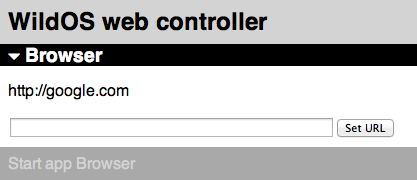
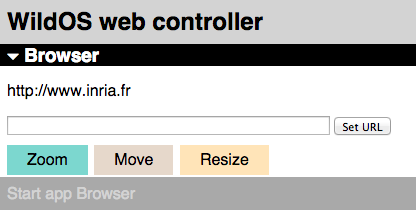
Updated documentation for faceless mode and new Browser controller. Fixed bug in Layer.

diff --git a/doc/running.html b/doc/running.html
@@ -31,6 +31,7 @@
 <li class="toc3"><a href="#runningthewebclients">Running the web clients</a></li>
 <li class="toc3"><a href="#shuttingdown">Shutting down</a></li>
 <li class="toc3"><a href="#runningrenderersbyhand">Running renderers by hand</a></li>
+<li class="toc3"><a href="#runningafacelessserver">Running a faceless server</a></li>
 
             </ul>
           </li>
@@ -94,7 +95,7 @@ The <code>Shutdown</code> button sends a message to the clients to quit them gra
 
 <p>The general format of the <code>wildos</code> command is as follows:</p>
 
-<pre><code>    % wildos [start] [-n|--no-clients] [-w|--wall config] [-c|--config path] [-p|--port number] [-d|--debug [0|1|2]] [-l|--log file] [app ...]
+<pre><code>    % wildos [start] [-n|--no-clients] [-w|--wall config] [-c|--config path] [-p|--port number] [-d|--debug [0|1|2]] [-l|--log file] [--no-GUI] [app ...]
     % wildos stop
 </code></pre>
 
@@ -107,6 +108,7 @@ The <code>Shutdown</code> button sends a message to the clients to quit them gra
 <li><code>-p|--port &lt;number&gt;</code> specifies a different port number than the one specified in the config file for the server to listen to;</li>
 <li><code>-d|--debug [0|1|2|3]</code> specifies debugging level: 0 (no logging), 1 (logging window hidden), 2 (logging window open), 3 (logging redirected to the console);</li>
 <li><code>-l|--log file</code> specifies the log configuration file (defaults to <code>logdefault.js</code>);</li>
+<li><code>--no-GUI</code> specifies to run the server faceless (see below);</li>
 <li><code>app ...</code> is an optional list of apps. The available apps, such as <code>Browser</code> are described later in this document.</li>
 </ul>
 
@@ -169,14 +171,35 @@ The full list of options is as follows:</p>
 <li><code>-s, --server &lt;name[:port]&gt;</code> specifies the server and, optionally, port number to connect to (defaults to $SSH_CLIENT and the port number specified by <code>--port</code>);</li>
 <li><code>-l, --local</code> runs the renderer locally: server is on localhost;</li>
 <li><code>-p, --port &lt;number&gt;</code> specifies the port number on the server (defaults to 8080);</li>
-<li><code>-h, --hostname &lt;name&gt;</code> &#8217;Host name to send to server (defaults to the hostname returned by node.js);</li>
-<li><code>-i, --instance &lt;name&gt;</code> &#8217;Instance name (required);</li>
-<li><code>-d, --debug [level]</code> &#8217;Enable debugging (same as for the server above);</li>
+<li><code>-h, --hostname &lt;name&gt;</code> specifies the host name to send to the server (defaults to the hostname returned by node.js);</li>
+<li><code>-i, --instance &lt;name&gt;</code> specifies the instance name (required);</li>
+<li><code>-d, --debug [level]</code> enables debugging (same as for the server above);</li>
 <li><code>--log file</code> &#8217;Log config file;</li>
 </ul>
 
 <p>Note that additional options are processed by node-webkit.
 Of particular interest is the option <code>--remote-debugging-port=9222</code> (you can use a different port number), which lets you debug the client from a remote machine by connecting to the URL <code>http://&lt;client&gt;:9222</code> from a Chrome browser.</p>
+
+<h3 id="runningafacelessserver">Running a faceless server</h3>
+
+<p>When the server is running on a computer that does not have a display directly connected to it, it may be useful to avoid displaying the platform user interface by running the server in so-called faceless mode.
+However, this also means that a number of interactive controls are not available anymore
+(a future version may support a version of the platform interface running remotely, in a regular browser.)</p>
+
+<p>You can run the server in faceless mode by adding the option <code>--no-GUI</code>.
+This still uses <code>node-webkit</code> but does not open any window nor change the application menus.</p>
+
+<p>Alternatively, you can run the server with <code>node.js</code> as follows:</p>
+
+<pre><code>% cd server
+% node wildos.js [same options as wildos]
+</code></pre>
+
+<p>Note that when running with <code>node.js</code>, the preferences of the server and the state that applications may have stored in the webkit localStorage are not used, since they are not accessible.
+The applications also cannot save such state.
+(This may be fixed in future versions.)</p>
+
+<p>To quit a faceless server, simply type control-C.</p>
 
     </div>
     <script type="text/javascript" src="assets/js/jquery-1.11.0.min.js"></script>

diff --git a/doc/applications.html b/doc/applications.html
@@ -67,6 +67,9 @@
 <p>You specify the web page to be displayed either in the platform window or in the web controller.
 In the platform window, you can pan the page by dragging the miniature image of the page, and you can zoom it in/out by using the scrollwheel of your mouse when the cursor is on the miniature image. This makes it easy to scale the web page to the size of your wall display.</p>
 
+<p>These functions are also available on the web controller: tap one of the three buttons <code>Zoom</code>, <code>Move</code> or <code>Resize</code>;
+a trackpad appears; dragging in the trackpad controls the corresponding function.</p>
+
 <figure>
 <img src="img/browser.png" alt="Screendump of the browser app" />
 <figcaption>Screendump of the browser app</figcaption>

diff --git a/renderer/lib/Layer.js b/renderer/lib/Layer.js
@@ -184,13 +184,13 @@ var Layer = OO.newClass().name('Layer')
 			var attrSet = {};
 
 			// Overlay layer: make it transparent and ignore input events
-			if (tile.overlay) {
+			if (this.overlay) {
 				attrSet.backgroundColor = 'transparent';
 				attrSet.pointerEvents = 'none';
 			}
 
 			// Grid mode: ignore tile offset and cover entire tile
-			if (tile.mode == 'grid') {
+			if (this.mode == 'grid') {
 				attrSet.left = 0;
 				attrSet.top = 0;
 				attrSet.width = tile.width;

diff --git a/doc/src/running.md b/doc/src/running.md
@@ -33,7 +33,7 @@ The `Applications` menu lists the available applications. Select an application 
 The general format of the `wildos` command is as follows:
 
 ```
-	% wildos [start] [-n|--no-clients] [-w|--wall config] [-c|--config path] [-p|--port number] [-d|--debug [0|1|2]] [-l|--log file] [app ...]
+	% wildos [start] [-n|--no-clients] [-w|--wall config] [-c|--config path] [-p|--port number] [-d|--debug [0|1|2]] [-l|--log file] [--no-GUI] [app ...]
 	% wildos stop
 ```
 
@@ -45,6 +45,7 @@ The first form runs the server and takes the following arguments:
 * `-p|--port <number>` specifies a different port number than the one specified in the config file for the server to listen to;
 * `-d|--debug [0|1|2|3]` specifies debugging level: 0 (no logging), 1 (logging window hidden), 2 (logging window open), 3 (logging redirected to the console);
 * `-l|--log file` specifies the log configuration file (defaults to `logdefault.js`);
+* `--no-GUI` specifies to run the server faceless (see below);
 * `app ...` is an optional list of apps. The available apps, such as `Browser` are described later in this document.
 
 The second form stops the rendering clients (but not the server).
@@ -100,10 +101,30 @@ The full list of options is as follows:
 * `-s, --server <name[:port]>` specifies the server and, optionally, port number to connect to (defaults to $SSH_CLIENT and the port number specified by `--port`);
 * `-l, --local` runs the renderer locally: server is on localhost;
 * `-p, --port <number>` specifies the port number on the server (defaults to 8080);
-* `-h, --hostname <name>` 'Host name to send to server (defaults to the hostname returned by node.js);
-* `-i, --instance <name>` 'Instance name (required);
-* `-d, --debug [level]` 'Enable debugging (same as for the server above);
+* `-h, --hostname <name>` specifies the host name to send to the server (defaults to the hostname returned by node.js);
+* `-i, --instance <name>` specifies the instance name (required);
+* `-d, --debug [level]` enables debugging (same as for the server above);
 * `--log file` 'Log config file;
 
 Note that additional options are processed by node-webkit.
 Of particular interest is the option `--remote-debugging-port=9222` (you can use a different port number), which lets you debug the client from a remote machine by connecting to the URL `http://<client>:9222` from a Chrome browser.
+
+### Running a faceless server ###
+
+When the server is running on a computer that does not have a display directly connected to it, it may be useful to avoid displaying the platform user interface by running the server in so-called faceless mode.
+However, this also means that a number of interactive controls are not available anymore
+(a future version may support a version of the platform interface running remotely, in a regular browser.)
+
+You can run the server in faceless mode by adding the option `--no-GUI`.
+This still uses `node-webkit` but does not open any window nor change the application menus.
+
+Alternatively, you can run the server with `node.js` as follows:
+
+	% cd server
+	% node wildos.js [same options as wildos]
+
+Note that when running with `node.js`, the preferences of the server and the state that applications may have stored in the webkit localStorage are not used, since they are not accessible.
+The applications also cannot save such state.
+(This may be fixed in future versions.)
+
+To quit a faceless server, simply type control-C.

diff --git a/doc/src/applications.md b/doc/src/applications.md
@@ -8,6 +8,9 @@ The Browser application lets you display any web page on the tiled display.
 You specify the web page to be displayed either in the platform window or in the web controller.
 In the platform window, you can pan the page by dragging the miniature image of the page, and you can zoom it in/out by using the scrollwheel of your mouse when the cursor is on the miniature image. This makes it easy to scale the web page to the size of your wall display.
 
+These functions are also available on the web controller: tap one of the three buttons `Zoom`, `Move` or `Resize`;
+a trackpad appears; dragging in the trackpad controls the corresponding function.
+
 ![Screendump of the browser app](img/browser.png)
 
 ![Screendump of the browser web controller](img/browser-controller.png)
